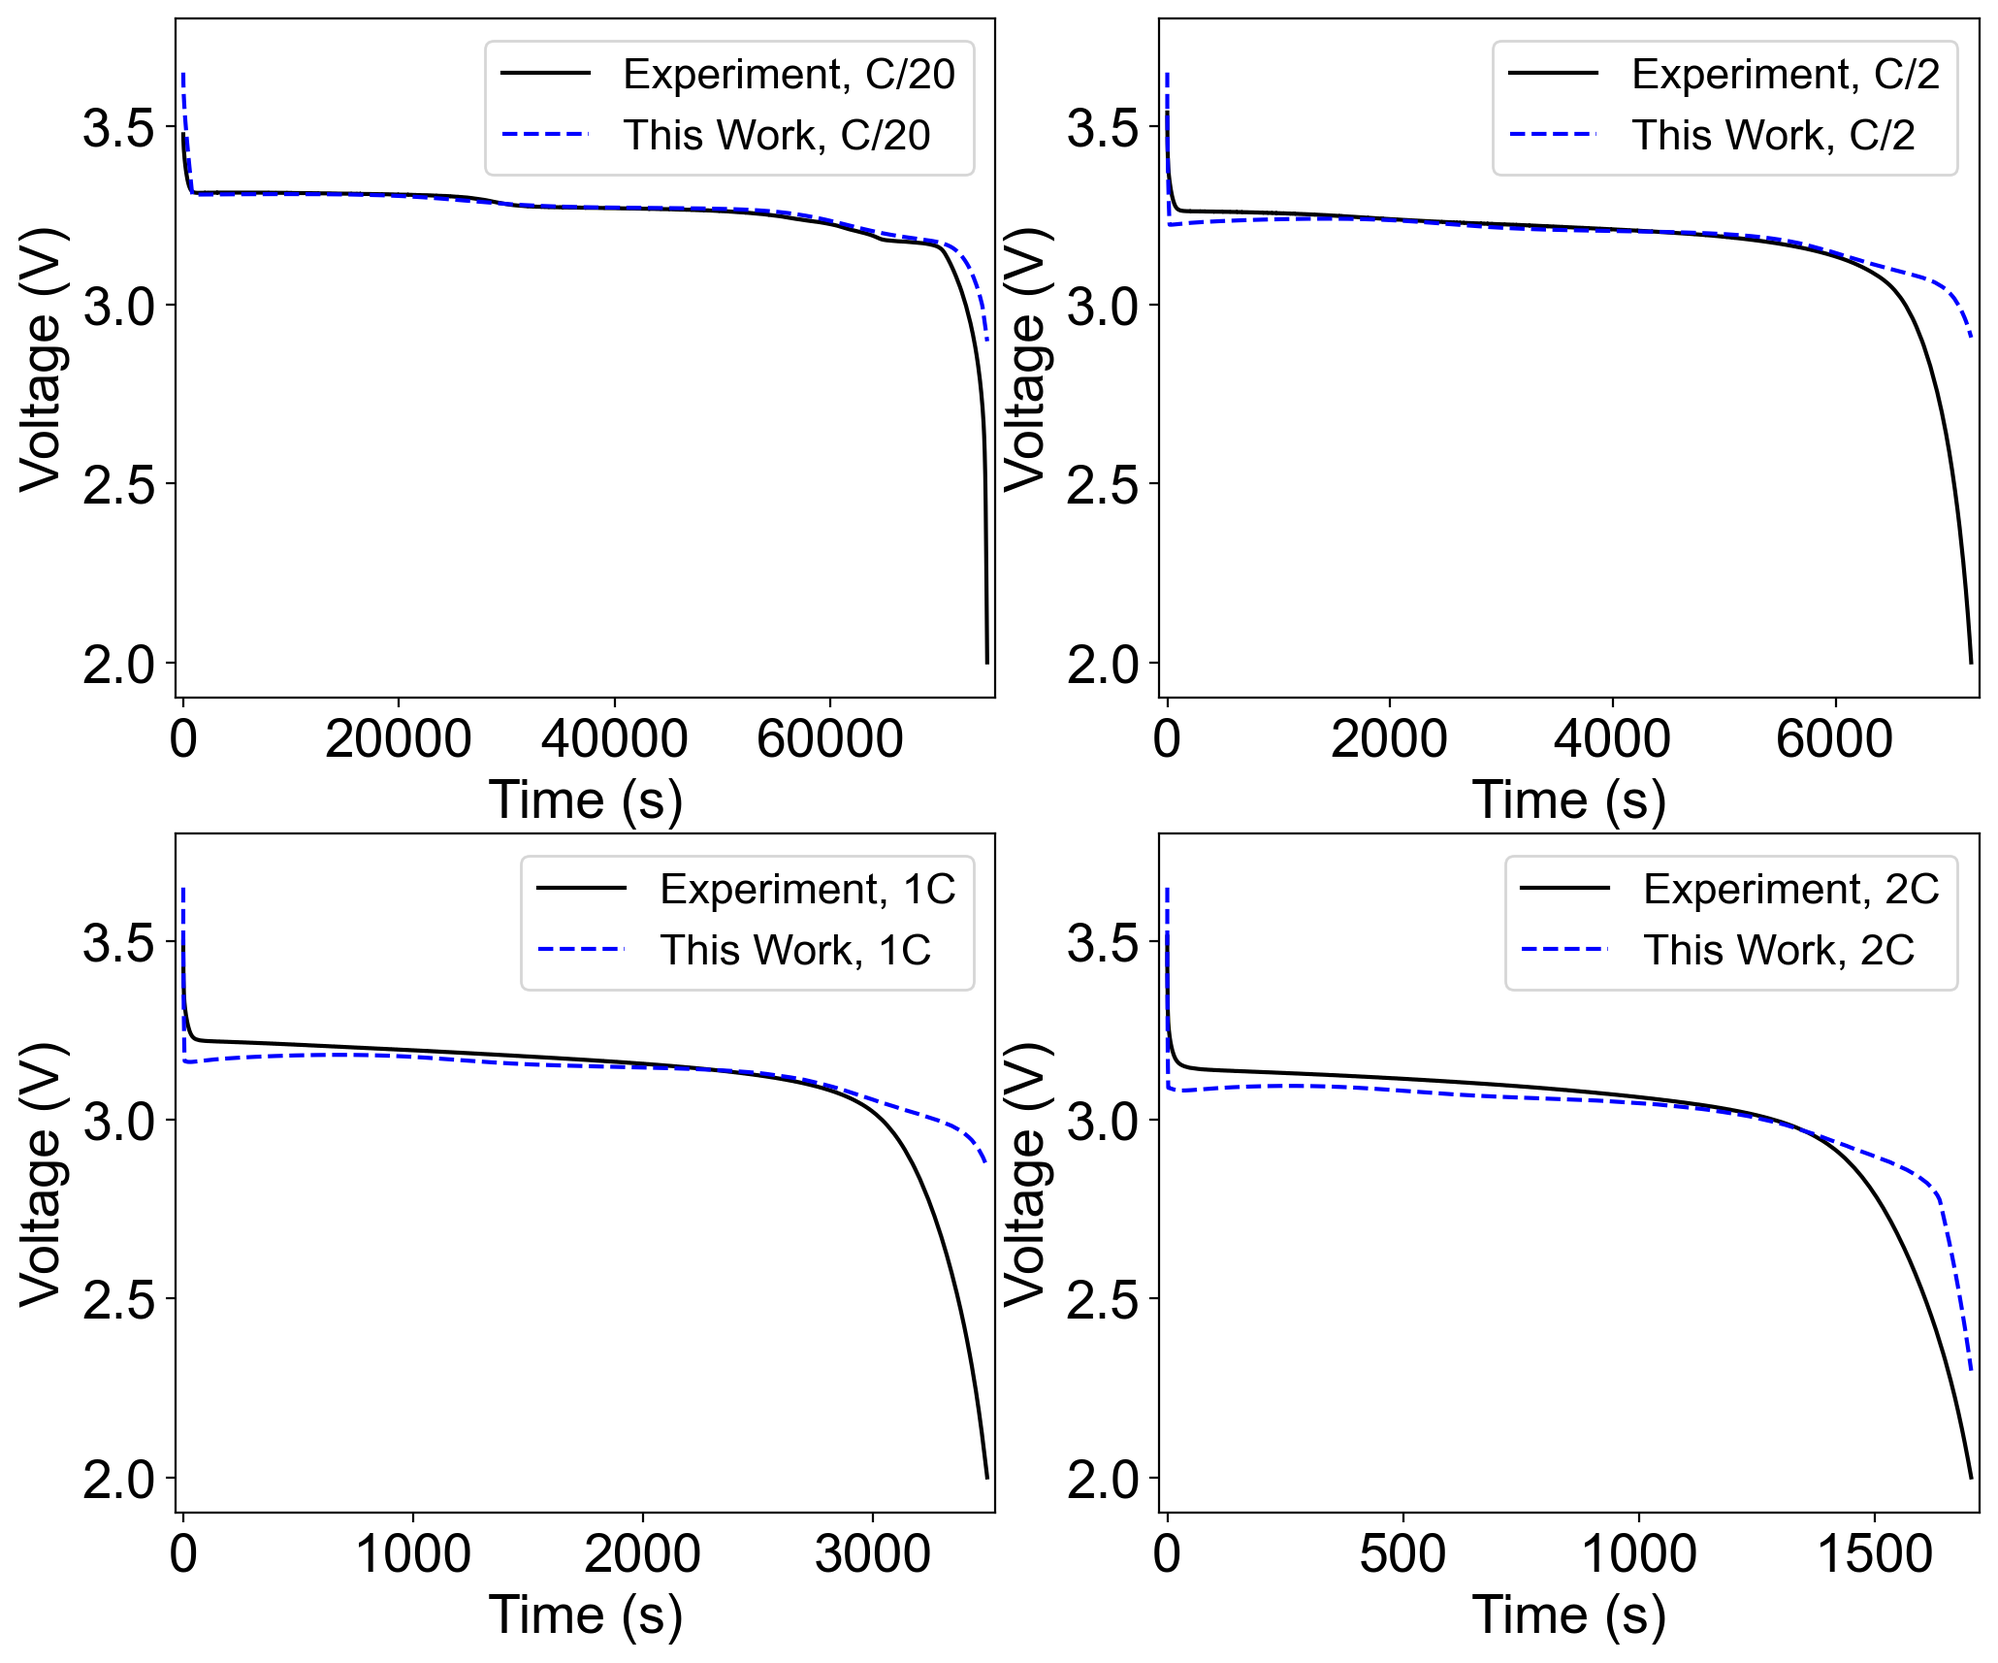
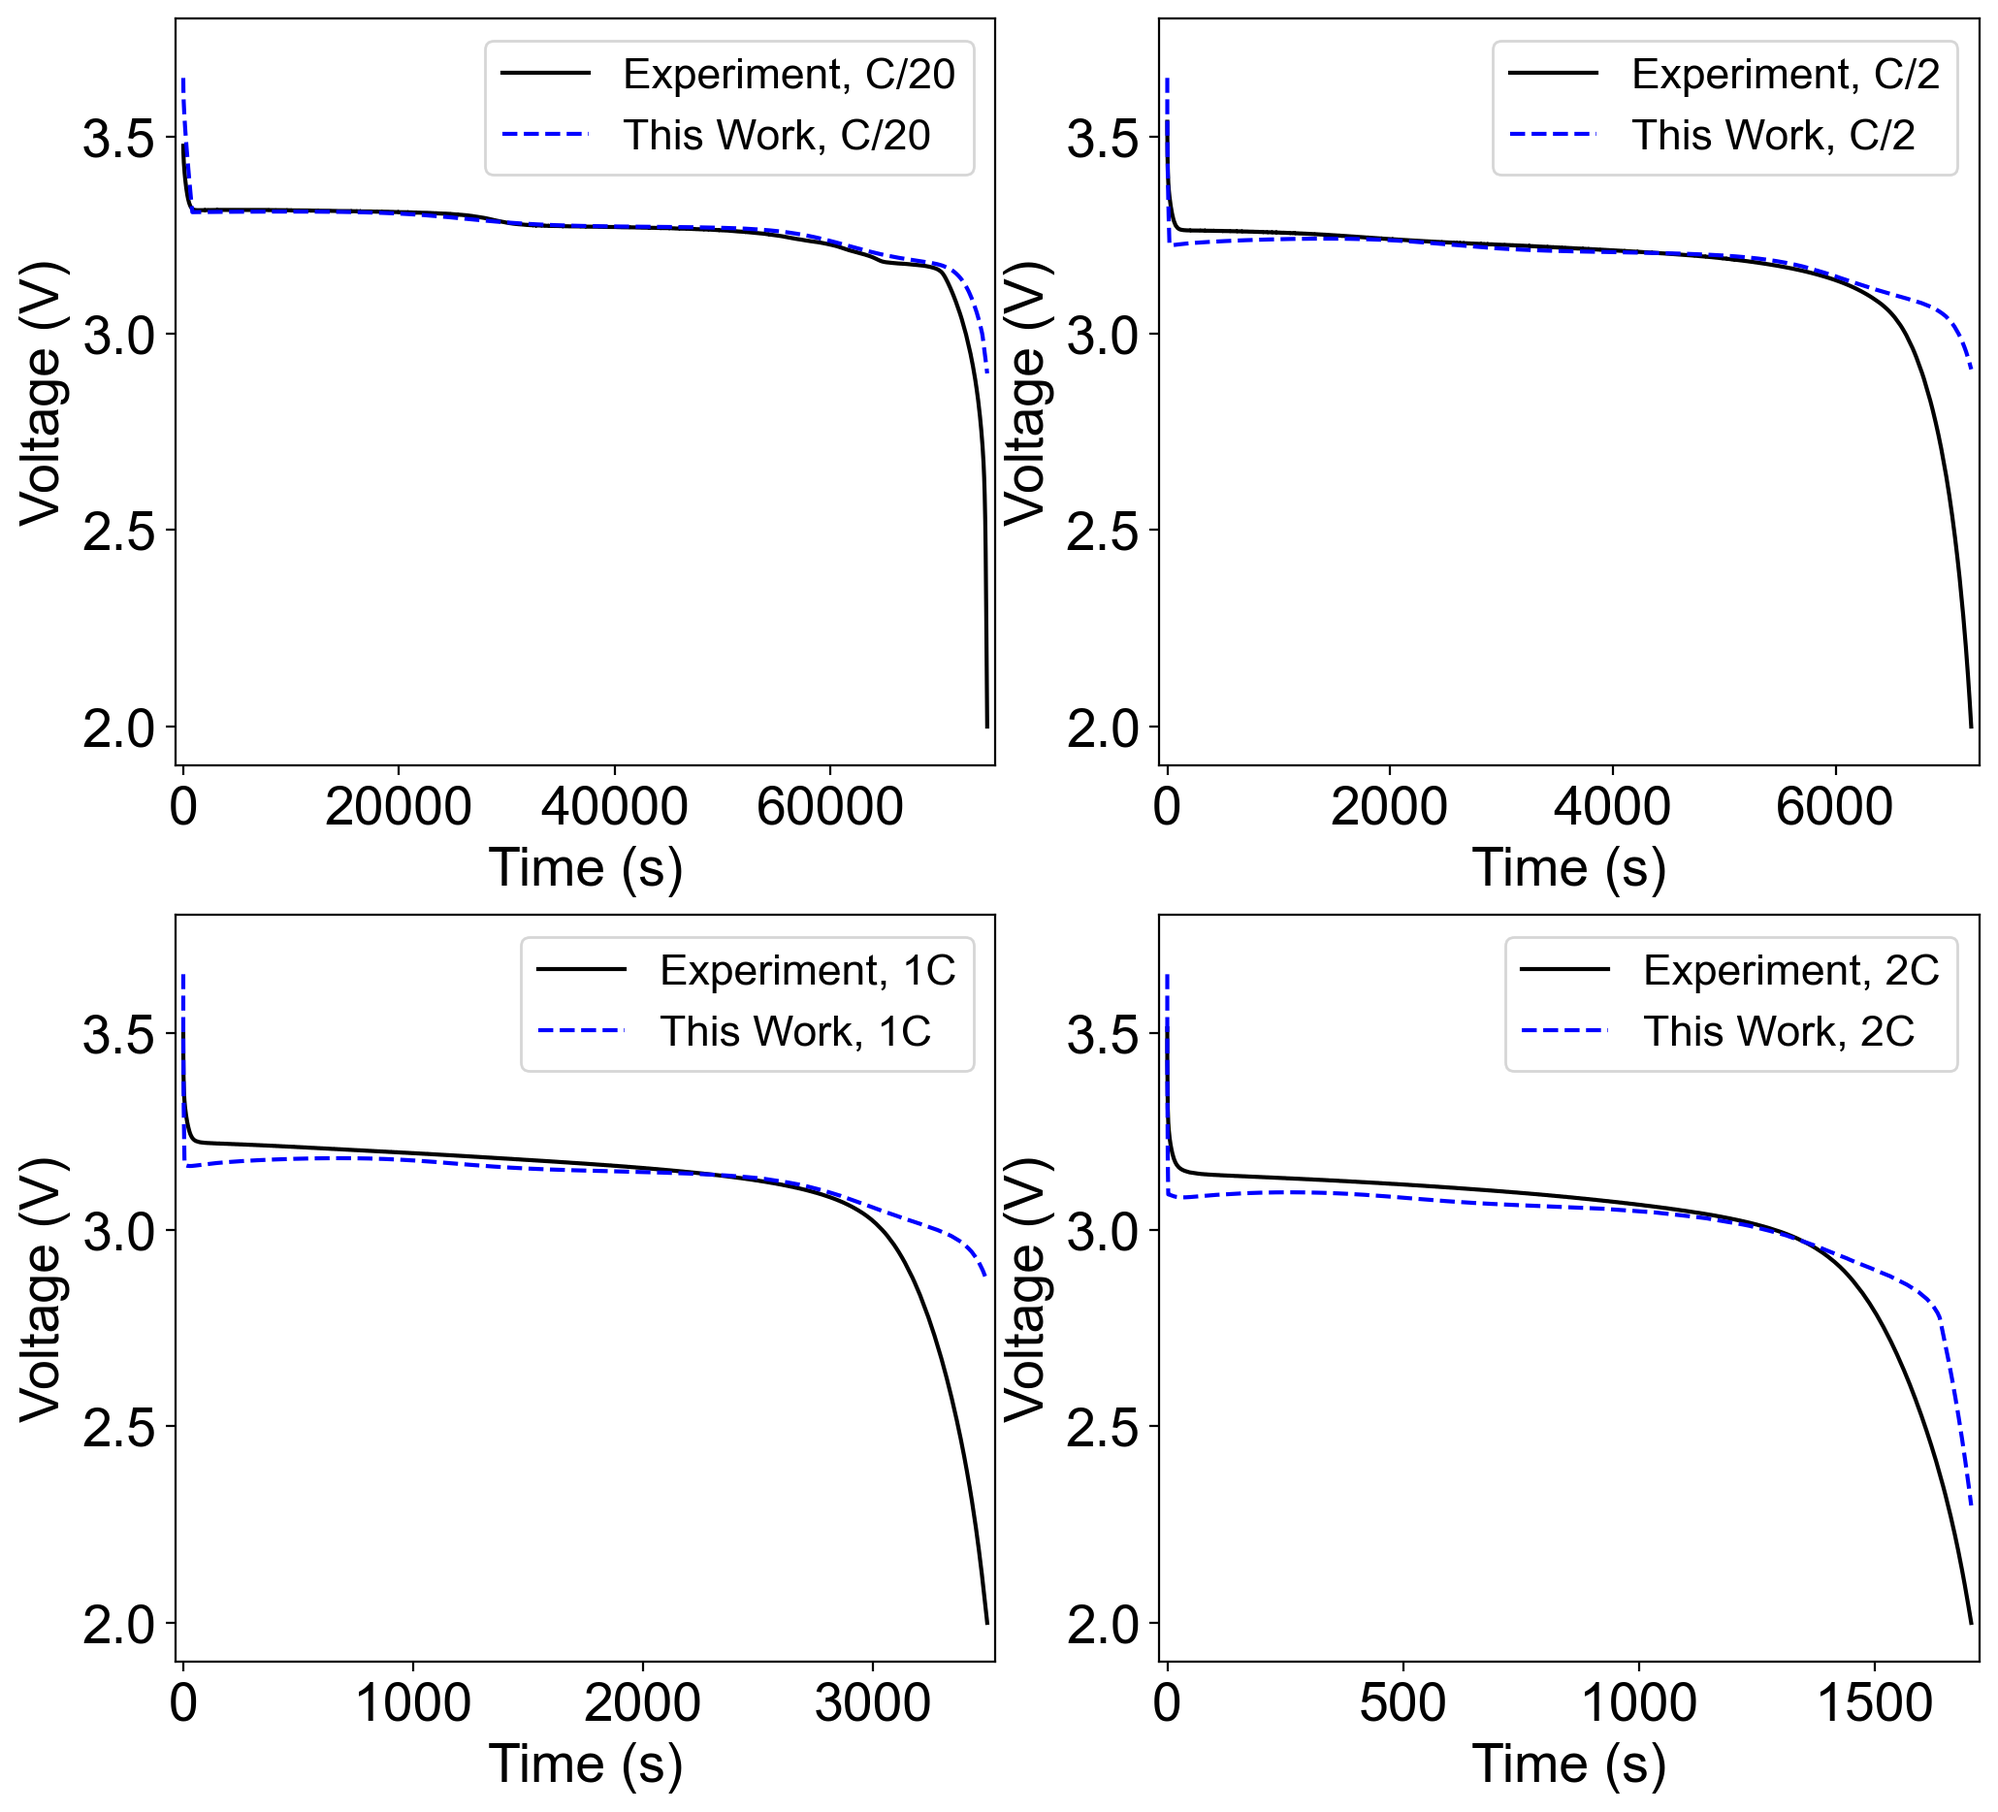
update figure size & captions

diff --git a/pybamm_run/draw_all.py b/pybamm_run/draw_all.py
@@ -7,7 +7,7 @@ mpl.rc('font',family='Arial')
 
 
 # no error plot
-fig, ax = plt.subplots(2, 2, figsize=(12, 10))
+fig, ax = plt.subplots(2, 2, figsize=(12, 11))
 c_rates = [0.05, 0.5, 1.0, 2.0] 
 c_rates_label = ["C/20", "C/2", "1C", "2C"]
 filenames = ["LFP_25degC_Co20.csv", "LFP_25degC_Co2.csv", "LFP_25degC_1C.csv", "LFP_25degC_2C.csv"]
@@ -49,26 +49,20 @@ for i in range(0, len(c_rates)):
     ax_now.set_xlabel("Time (s)", fontsize=20)
     ax_now.set_ylabel("Voltage (V)", fontsize=20)
     ax_now.set_ylim([1.9, 3.8])
-<<<<<<< HEAD
     ax_now.set_xlim([-t.max()/100, t.max()*1.01])
     ax_now.legend(fontsize=16)
     ax_now.tick_params(axis='both', which='major', labelsize=20)  
-=======
-    ax_now.set_xlim([-t.max()/100, t.max()*1.02])
-    ax_now.legend(fontsize=12)
-    ax_now.tick_params(axis='both', which='major', labelsize=14)  
->>>>>>> 5d3b39aab1fb3595963b1b281513ad302898f1cf
 plt.savefig('Figure3.png', dpi=200, bbox_inches='tight') 
 plt.close()
 
 # with error plot
-fig, ax = plt.subplots(4, 2, figsize=(12, 16))
+fig, ax = plt.subplots(4, 2, figsize=(17, 20))
 c_rates = [0.05, 0.5, 1.0, 2.0] 
 c_rates_label = ["C/20", "C/2", "1C", "2C"]
 filenames = ["LFP_25degC_Co20.csv", "LFP_25degC_Co2.csv", "LFP_25degC_1C.csv", "LFP_25degC_2C.csv"]
 rmses_diffthermo = []
 rmses_AboutEnergy = []
-for i in range(0, len(c_rates)):
+for i in range(0, len(c_rates)):   
     # load true data
     filename = filenames[i]
     data = pd.read_csv(
@@ -99,31 +93,32 @@ for i in range(0, len(c_rates)):
     ax_now = ax[i][0]
     ax_now.plot(voltage_data[:, 0], voltage_data[:, 1], "k-", label=f"Experiment, {c_rates_label[i]}")
     ax_now.plot(t, V, "b--", label=f"This Work, {c_rates_label[i]}")
-    ax_now.plot(t_a, V_a, "r--", label=f"AboutEnergy, {c_rates_label[i]}")
-    ax_now.set_xlabel("Time (s)", fontsize=14)
-    ax_now.set_ylabel("Voltage (V)", fontsize=14)
+    # ax_now.plot(t_a, V_a, "r--", label=f"AboutEnergy, {c_rates_label[i]}")
+    ax_now.set_xlabel("Time (s)", fontsize=20)
+    ax_now.set_ylabel("Voltage (V)", fontsize=20)
     ax_now.set_ylim([1.9, 3.8])
     ax_now.set_xlim([-t.max()/100, t.max()*1.01])
-    ax_now.legend(fontsize=12)
-    ax_now.tick_params(axis='both', which='major', labelsize=14)  
+    ax_now.legend(fontsize=16)
+    ax_now.tick_params(axis='both', which='major', labelsize=20)  
     # Error plot
     ax_now = ax[i][1]
     # this work
     rmse = np.sqrt( np.nanmean((voltage_data[:, 1] - V)**2) ) * 1000
-    label = f"This Work, {c_rates_label[i]}, RMSE = "
+    # label = f"This Work, {c_rates_label[i]}, RMSE = "
+    label = f"{c_rates_label[i]}, RMSE = "
     label = label + "%.3f mV" %(rmse)
     ax_now.plot(t, (V - voltage_data[:, 1]) * 1000, "b-", label = label)
-    # about energy
-    rmse = np.sqrt( np.nanmean((voltage_data[:, 1] - V_a)**2) ) * 1000
-    label = f"About Energy, {c_rates_label[i]}, RMSE = "
-    label = label + "%.3f mV" %(rmse)
-    ax_now.plot(t, (V_a - voltage_data[:, 1]) * 1000, "r-", label = label)
+    # # about energy
+    # rmse = np.sqrt( np.nanmean((voltage_data[:, 1] - V_a)**2) ) * 1000
+    # label = f"About Energy, {c_rates_label[i]}, RMSE = "
+    # label = label + "%.3f mV" %(rmse)
+    # ax_now.plot(t, (V_a - voltage_data[:, 1]) * 1000, "r-", label = label)
     # settings
-    ax_now.set_xlabel("Time (s)")
-    ax_now.set_ylabel("Error (mV)")
+    ax_now.set_xlabel("Time (s)", fontsize=20)
+    ax_now.set_ylabel("Error (mV)", fontsize=20)
     ax_now.set_xlim([-t.max()/100, t.max()*1.01])
-    ax_now.legend(fontsize=12)
-    ax_now.tick_params(axis='both', which='major', labelsize=14)  
+    ax_now.legend(fontsize=16)
+    ax_now.tick_params(axis='both', which='major', labelsize=20)  
 
 plt.savefig('Figure3_with_error.png', dpi=200, bbox_inches='tight') 
 plt.close()
